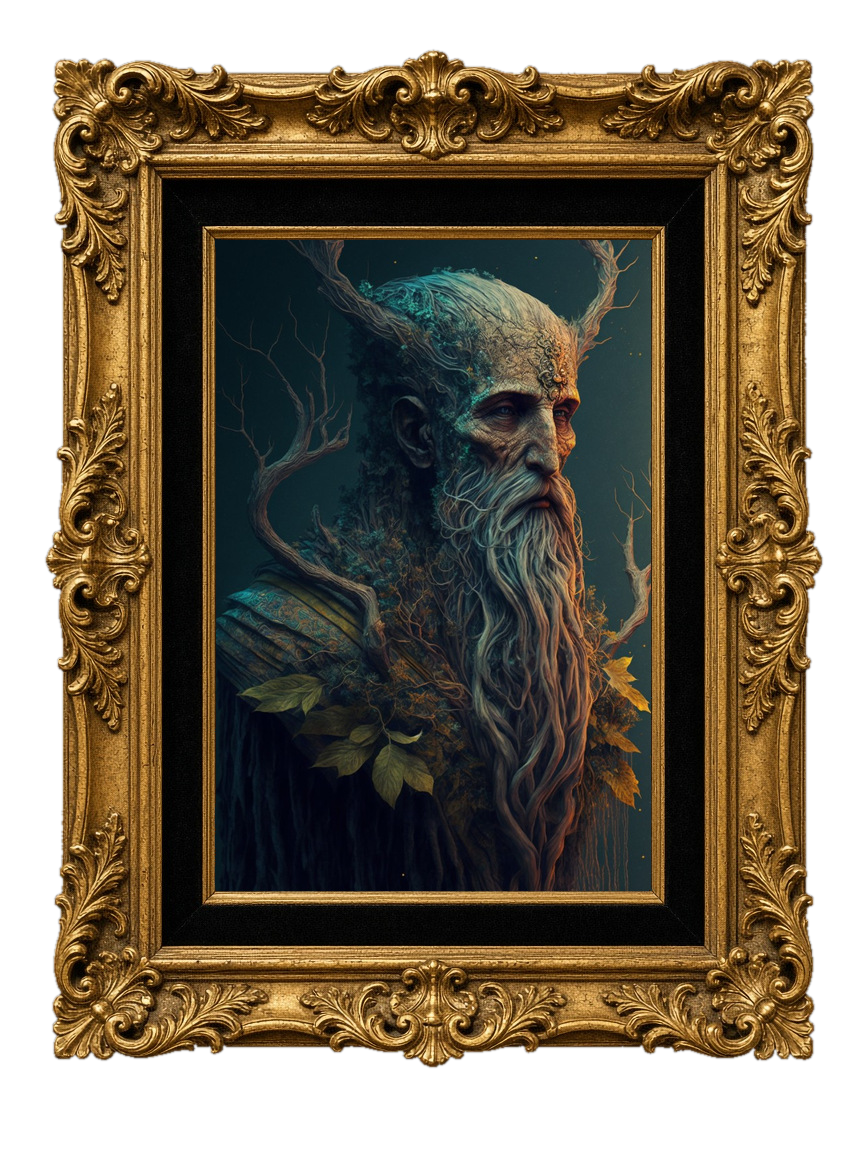
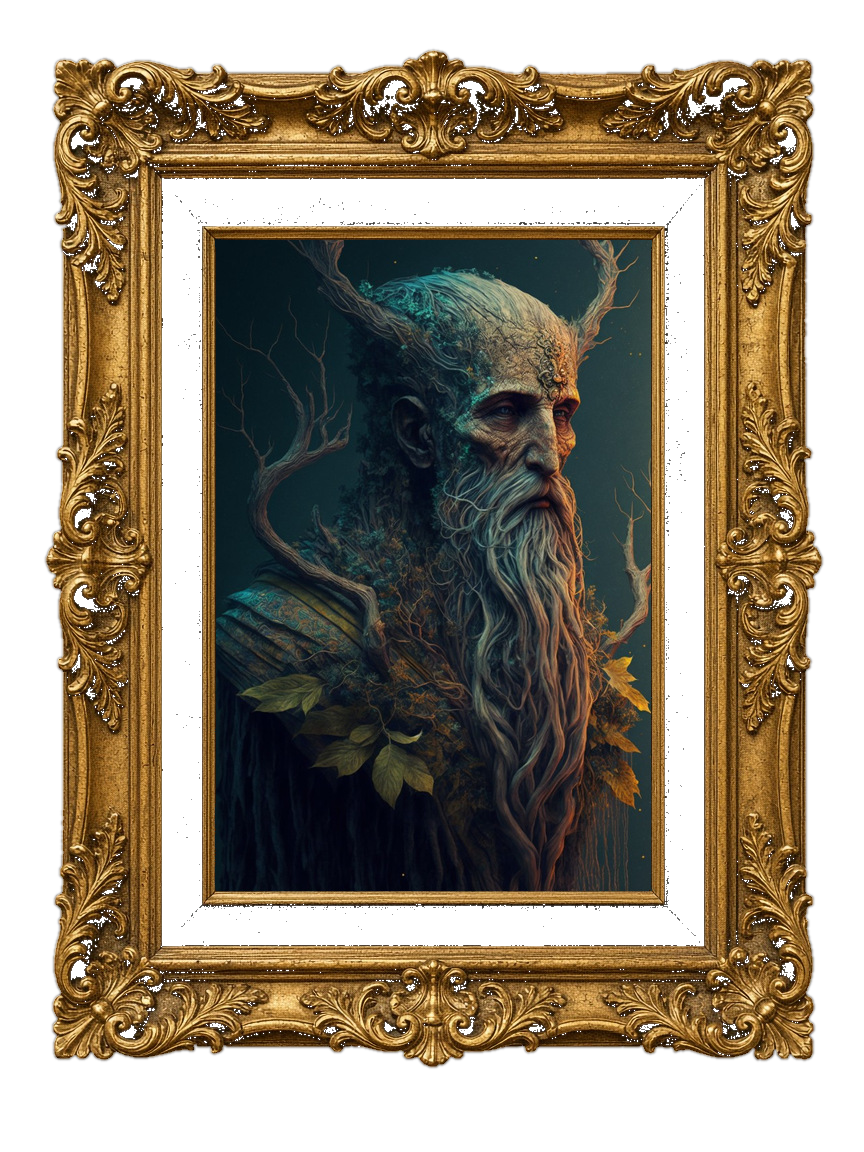
Punch the Elder gilt inner slip so the starfield shows through.
EOF

diff --git a/architecture.md b/architecture.md
@@ -177,7 +177,7 @@ No `localStorage`, `sessionStorage`, cookies, or IndexedDB.
 
 ### `gallery.html` hall specifics
 
-- **2D hangings:** `#hall` is DOM. Two precomposed PNGs with transparent exteriors: `art/hangings/01-elder-gilt.png` and `art/hangings/02-nautilus-titanium.png`. `FRAMES` keeps punched walnut/gilt/iron/titanium PNG overlays under `art/frames/` for later stills. Assets are not under `gallery/` so they do not collide with Netlify Pretty URL `/gallery` (`gallery.html`).
+- **2D hangings:** `#hall` is DOM. Two precomposed PNGs with transparent exteriors: `art/hangings/01-elder-gilt.png` and `art/hangings/02-nautilus-titanium.png`. Elder's gilt black inner slip is also punched so the starfield shows between gold and canvas. `FRAMES` keeps punched walnut/gilt/iron/titanium PNG overlays under `art/frames/` for later stills. Assets are not under `gallery/` so they do not collide with Netlify Pretty URL `/gallery` (`gallery.html`).
 - **`ARTWORKS`:** `{ src, alt, frame }`. First hanging is gilt; second is titanium/walnut (`The Nautilus`).
 - **Layout:** desktop shows both in a row with CSS `--hang-y` stagger. Mobile shows one (`is-off` on the rest); swipe changes `focusIndex`. Optional `?focus=N` selects the starting hanging.
 - **Three.js:** starfield + enter/exit streaks only. No OrbitControls, no 3D rails. Scene clear is black (`#000`).
@@ -291,3 +291,4 @@ Append-only. Newest rows at the **bottom**. Do not rewrite prior rows.
 | 2026-10-17 | Second gallery hanging: Nautilus in titanium/walnut | gallery.html, gallery/02-nautilus.jpg, gallery/hangings/02-nautilus-titanium.jpg, gallery/frames/titanium.png, architecture.md | User added a new still and asked for a masterpiece edge in titanium with wood detail | Precomposed opaque JPEG. Desktop shows both with `--hang-y` stagger; mobile swipe to the second. Elder gilt hanging unchanged. Index/DIY routes unchanged. |
 | 2026-10-17 | Move hangings to `art/` so Netlify serves them | gallery.html, netlify.toml, architecture.md, art/**, deleted gallery/ | `gallery.html` Pretty URL `/gallery` collided with folder `gallery/`: live `/gallery/01-elder.jpg` 500, hangings 404 and were also missing from GitHub main | Src is now `art/hangings/*.jpg`. Header `/art/*` must-revalidate. Push `art/` to main. Index/DIY routes unchanged. |
 | 2026-10-17 | Punch hanging exteriors so frames sit on starfield | gallery.html, art/hangings/01-elder-gilt.png, art/hangings/02-nautilus-titanium.png, architecture.md | Opaque JPEG hangings baked a black rectangle around each frame, covering the starfield | Flood-fill dark exterior to alpha 0, 1 px feather. Src now `.png`. Old hanging JPEGs removed. Index/DIY routes unchanged. |
+| 2026-10-17 | Punch Elder gilt inner slip so stars show through | art/hangings/01-elder-gilt.png, architecture.md | Black velvet mat between gold and canvas covered the starfield | Slip mask from `art/frames/gilt.png` (dark, non-gold, opaque overlay). Gold sight edge and painting stay. Nautilus unchanged. |
